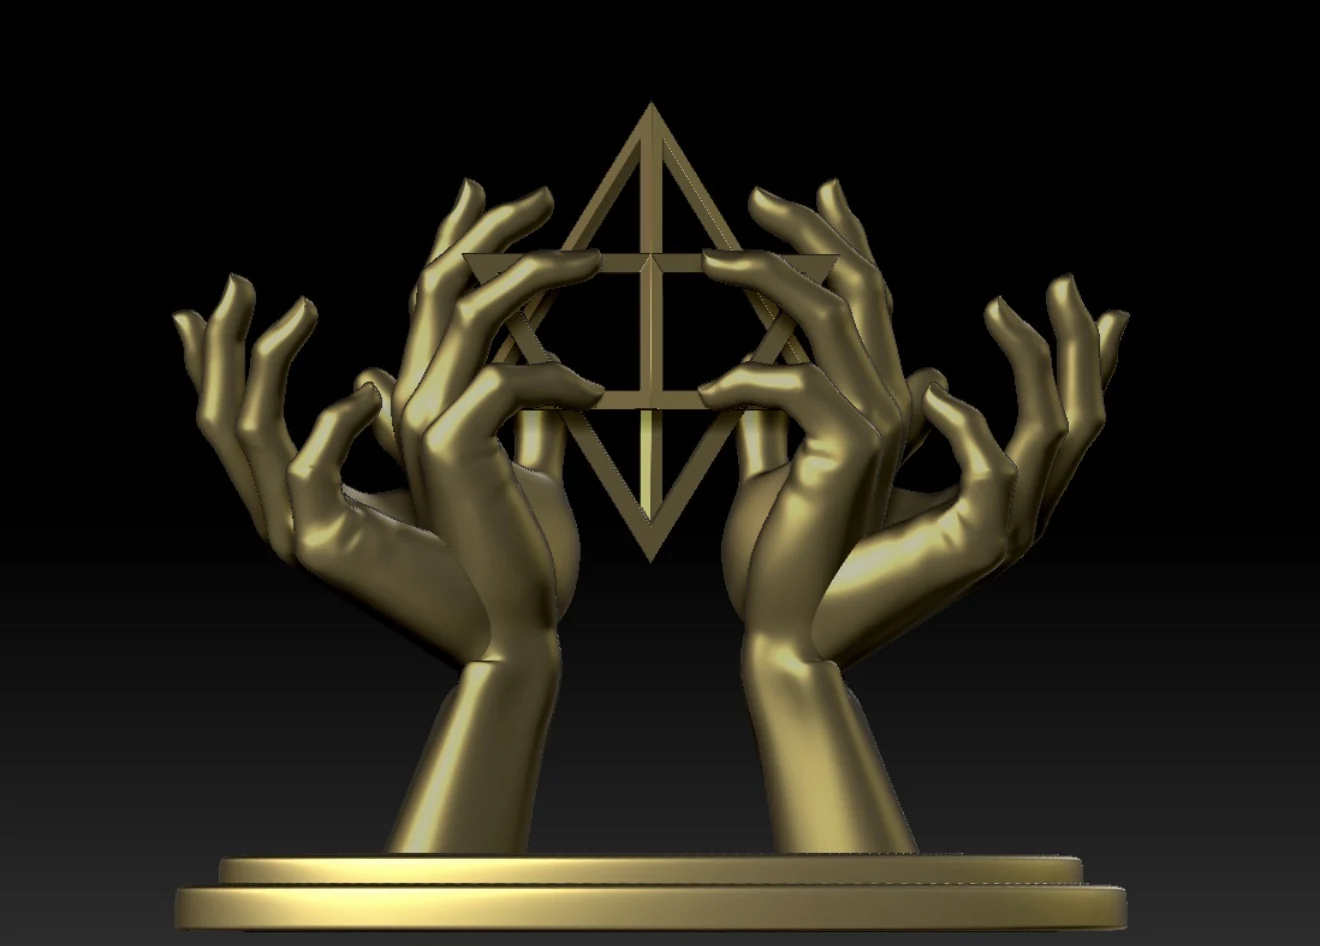
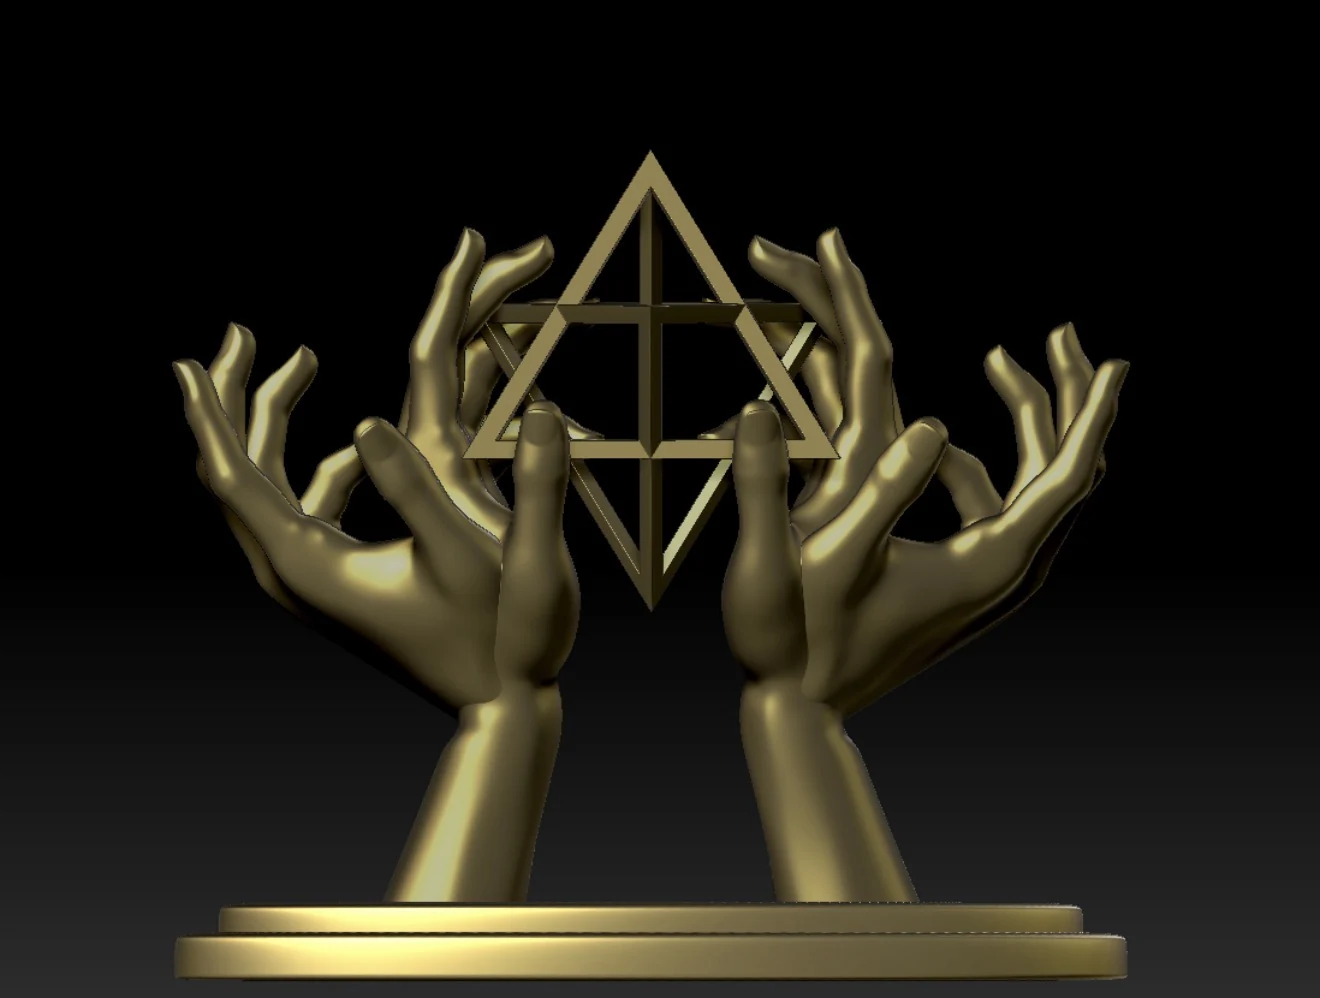
Correct Sacred Hands orientation and name The Table of Lesbos

Changed region(s): [[0.1242, 0.092, 0.8697, 0.9197], [0.1864, 0.9503, 0.6523, 1.0], [0.7144, 0.889, 0.8076, 0.9197]]

diff --git a/geometric-sculptures.html b/geometric-sculptures.html
@@ -4,7 +4,7 @@
   <meta charset="utf-8">
   <meta name="viewport" content="width=device-width, initial-scale=1">
   <meta name="theme-color" content="#1c201e">
-  <meta name="description" content="Two proposed sculptures by Nigel Patch. Explore Sacred Hands from three angles and a figurative metal table designed to carry a clear glass top.">
+  <meta name="description" content="Two proposed sculptures by Nigel Patch. Explore the hollow Merkaba in Sacred Hands and the five women who support the proposed glass top of The Table of Lesbos.">
   <title>Geometric Sculptures — Nigel Patch | Nigelæn Research</title>
   <style>
     :root { color-scheme: light; --paper: #f3f0e7; --ink: #1c201e; --line: #b7b7ab; --gold: #e4cd8f; }
@@ -50,6 +50,9 @@
     .viewer-head h2 { font-size: 1.45rem; }
     .viewer-head button { padding: .45rem .85rem; color: inherit; font: inherit; background: transparent; border: 1px solid currentColor; cursor: pointer; }
     dialog img { display: block; width: 100%; height: auto; max-height: 73vh; max-height: 73dvh; object-fit: contain; background: #080808; }
+    @media (min-width: 48rem) {
+      #sacred-hands .plates { grid-template-columns: repeat(3,minmax(0,1fr)); }
+    }
     @media (max-width: 48rem) {
       .hero .wrap, .intro { grid-template-columns: 1fr; }
       .jump { margin-top: 1rem; }
@@ -71,12 +74,12 @@
       <div>
         <p class="label">Sculpture studies · Nigel Patch</p>
         <h1 id="page-title">Geometric<br><em>Sculptures</em></h1>
-        <p class="lead">Hands give these two designs their form. In <em>Sacred Hands</em>, they frame an open geometric solid. In a table study, they reach up to carry a sheet of glass. Patch envisions both works in metal.</p>
-        <nav class="jump" aria-label="Sculpture studies"><a href="#sacred-hands">Sacred Hands</a><a href="#table">Table study</a></nav>
+        <p class="lead">Hands give these two designs their form. In <em>Sacred Hands</em>, they frame a hollow Merkaba. In <em>The Table of Lesbos</em>, five women reach up to carry a sheet of glass. Patch envisions both works in metal.</p>
+        <nav class="jump" aria-label="Sculpture studies"><a href="#sacred-hands">Sacred Hands</a><a href="#table">The Table of Lesbos</a></nav>
       </div>
       <figure class="cover">
-        <a class="art-link" href="assets/geometric-sculptures/sacred-hands-front.webp" aria-label="Enlarge Sacred Hands, front view">
-          <img src="assets/geometric-sculptures/sacred-hands-front.webp" width="1320" height="946" fetchpriority="high" alt="Two gold-toned palms on a stepped base frame an open triangular form against a black background.">
+        <a class="art-link" href="assets/geometric-sculptures/sacred-hands-front.webp?view=1561" aria-label="Enlarge Sacred Hands, front view">
+          <img src="assets/geometric-sculptures/sacred-hands-front.webp?view=1561" width="1320" height="998" fetchpriority="high" alt="Front view of Sacred Hands. Two open, gold-toned palms frame a hollow Merkaba above a stepped base.">
           <span class="enlarge" aria-hidden="true">Enlarge</span>
         </a>
         <figcaption><strong><em>Sacred Hands</em>, front view</strong> Digital study for a proposed metal sculpture.</figcaption>
@@ -85,7 +88,7 @@
     <section class="work" id="sacred-hands" aria-labelledby="hands-title"><div class="wrap">
       <div class="intro">
         <div><p class="label">Proposed metal sculpture</p><h2 id="hands-title">Sacred Hands</h2></div>
-        <p>Two wrists rise from a stepped oval base. Between the cupped hands, straight edges trace a hollow form made of triangles. Seen head-on, the fingers nearly meet its outline. Seen from above, the gaps between fingertips and edges become part of the drawing. The digital study uses a gold tone to bring those edges into the light.</p>
+        <p>Two wrists rise from a stepped oval base. Between the cupped hands sits a hollow Merkaba. Its edges trace two interlocking tetrahedra, one pointing up and the other down. Seen head-on, the fingers nearly meet its outline. Seen from above, the gaps between fingertips and edges become part of the drawing. The digital study uses a gold tone to bring those edges into the light.</p>
       </div>
       <div class="plates">
           <figure>
@@ -102,27 +105,34 @@
             </a>
             <figcaption><strong>Sacred Hands, overhead view</strong> The space enclosed by the hands comes into view from above.</figcaption>
           </figure>
+          <figure>
+            <a class="art-link" href="assets/geometric-sculptures/sacred-hands-back.webp" aria-label="Enlarge Sacred Hands, back view">
+              <img src="assets/geometric-sculptures/sacred-hands-back.webp" width="1320" height="946" loading="lazy" decoding="async" alt="Back view of Sacred Hands, with the fingers crossing in front of the hollow Merkaba.">
+              <span class="enlarge" aria-hidden="true">Enlarge</span>
+            </a>
+            <figcaption><strong>Sacred Hands, back view</strong> From behind, the fingers overlap a different set of edges.</figcaption>
+          </figure>
       </div>
     </div></section>
     <section class="work" id="table" aria-labelledby="table-title"><div class="wrap">
       <div class="intro">
-        <div><p class="label">Proposed metal and glass table</p><h2 id="table-title">Figurative table study</h2></div>
-        <p>The figures form a ring around an open center. Patch intends their hands to support a clear glass tabletop, so a person looking down through the glass could still see the whole arrangement. These two views show the sculptural base on its own.</p>
+        <div><p class="label">Proposed metal and glass table</p><h2 id="table-title">The Table of Lesbos</h2></div>
+        <p>Five women form a ring around an open center. Patch intends their hands to support a clear glass tabletop, so a person looking down through the glass could still see the whole arrangement. These two views show the sculptural base on its own.</p>
       </div>
       <div class="plates">
           <figure>
-            <a class="art-link" href="assets/geometric-sculptures/table-overhead.webp" aria-label="Enlarge Table study, overhead view">
-              <img src="assets/geometric-sculptures/table-overhead.webp" width="1320" height="1238" loading="lazy" decoding="async" alt="Overhead rendering of gray human figures arranged in a circle around an open center, with hands extending around the ring.">
+            <a class="art-link" href="assets/geometric-sculptures/table-overhead.webp" aria-label="Enlarge The Table of Lesbos, overhead view">
+              <img src="assets/geometric-sculptures/table-overhead.webp" width="1320" height="1238" loading="lazy" decoding="async" alt="Overhead rendering of five women rendered in gray and arranged in a circle around an open center, with hands extending around the ring.">
               <span class="enlarge" aria-hidden="true">Enlarge</span>
             </a>
-            <figcaption><strong>Table study, overhead view</strong> The circular arrangement would remain visible through the glass.</figcaption>
+            <figcaption><strong>The Table of Lesbos, overhead view</strong> The circular arrangement would remain visible through the glass.</figcaption>
           </figure>
           <figure>
-            <a class="art-link" href="assets/geometric-sculptures/table-profile.webp" aria-label="Enlarge Table study, side view">
-              <img src="assets/geometric-sculptures/table-profile.webp" width="1320" height="826" loading="lazy" decoding="async" alt="Side rendering of the gray figurative table base, with feet below and upturned hands along its upper edge.">
+            <a class="art-link" href="assets/geometric-sculptures/table-profile.webp" aria-label="Enlarge The Table of Lesbos, side view">
+              <img src="assets/geometric-sculptures/table-profile.webp" width="1320" height="826" loading="lazy" decoding="async" alt="Side view of The Table of Lesbos, with feet at the base and upturned hands at the intended height of the glass.">
               <span class="enlarge" aria-hidden="true">Enlarge</span>
             </a>
-            <figcaption><strong>Table study, side view</strong> The raised hands mark where the glass is intended to rest.</figcaption>
+            <figcaption><strong>The Table of Lesbos, side view</strong> The raised hands mark where the glass is intended to rest.</figcaption>
           </figure>
       </div>
     </div></section>

diff --git a/research-release-board.html b/research-release-board.html
@@ -679,7 +679,7 @@
             <div>
               <span class="tag planned">Sculpture designs</span>
               <h3><a href="geometric-sculptures.html">Geometric Sculptures</a></h3>
-              <p><em>Sacred Hands</em> and a figurative table designed to support a glass top.</p>
+              <p><em>Sacred Hands</em> frames a hollow Merkaba. In <em>The Table of Lesbos</em>, five women reach up to carry a sheet of glass.</p>
             </div>
             <div>
               <p>Digital studies show the designs from multiple angles. Patch envisions both works fabricated in metal.</p>

diff --git a/index.html b/index.html
@@ -746,7 +746,7 @@
           </p>
           <p>
             <a href="geometric-sculptures.html">Geometric Sculptures</a>
-            <small class="creative-status">Sacred Hands and a figurative glass-top table · Digital design studies</small>
+            <small class="creative-status">Sacred Hands and The Table of Lesbos · Digital design studies</small>
           </p>
           <p>
             <a href="study-library.html">Study Library</a>
